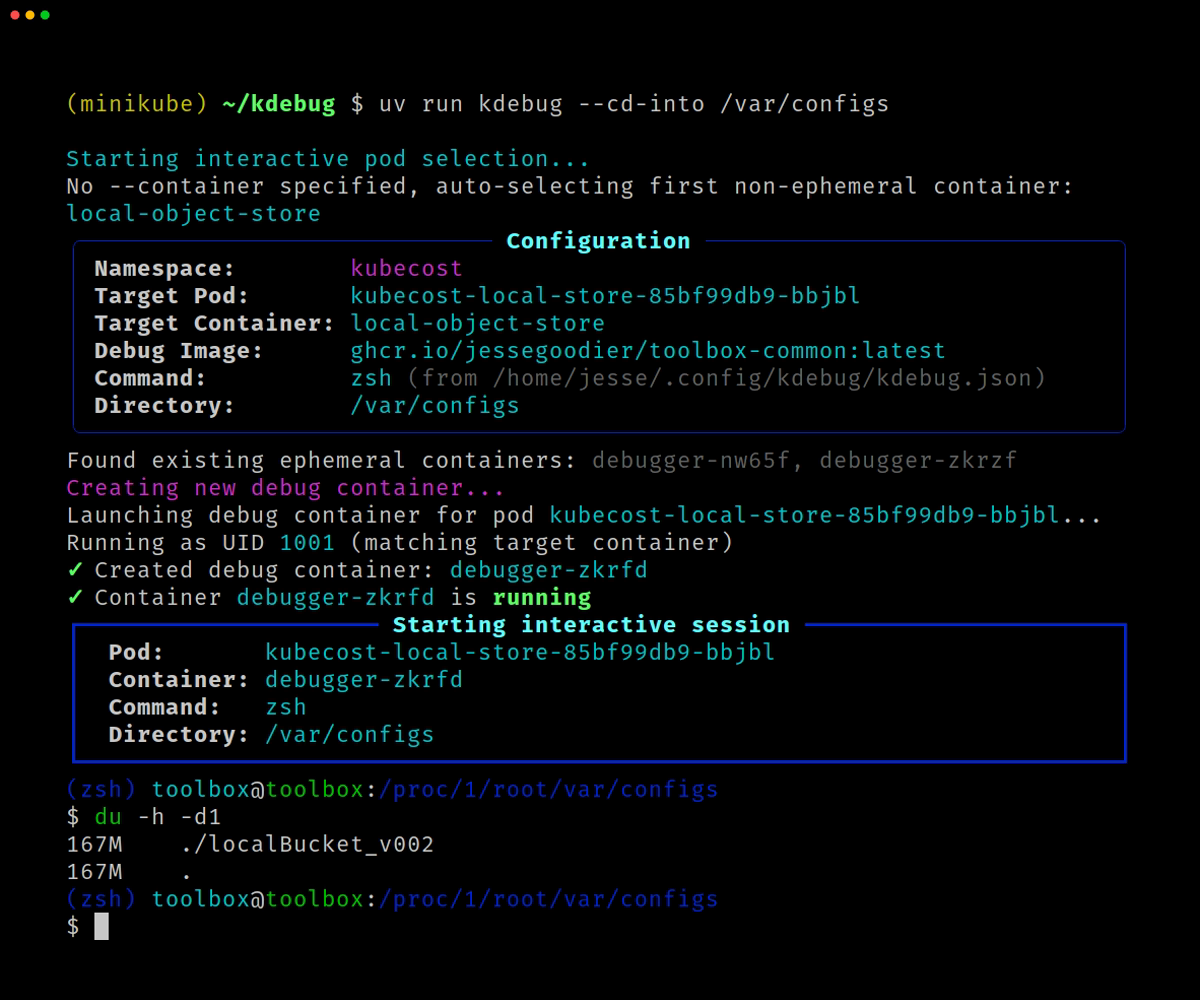
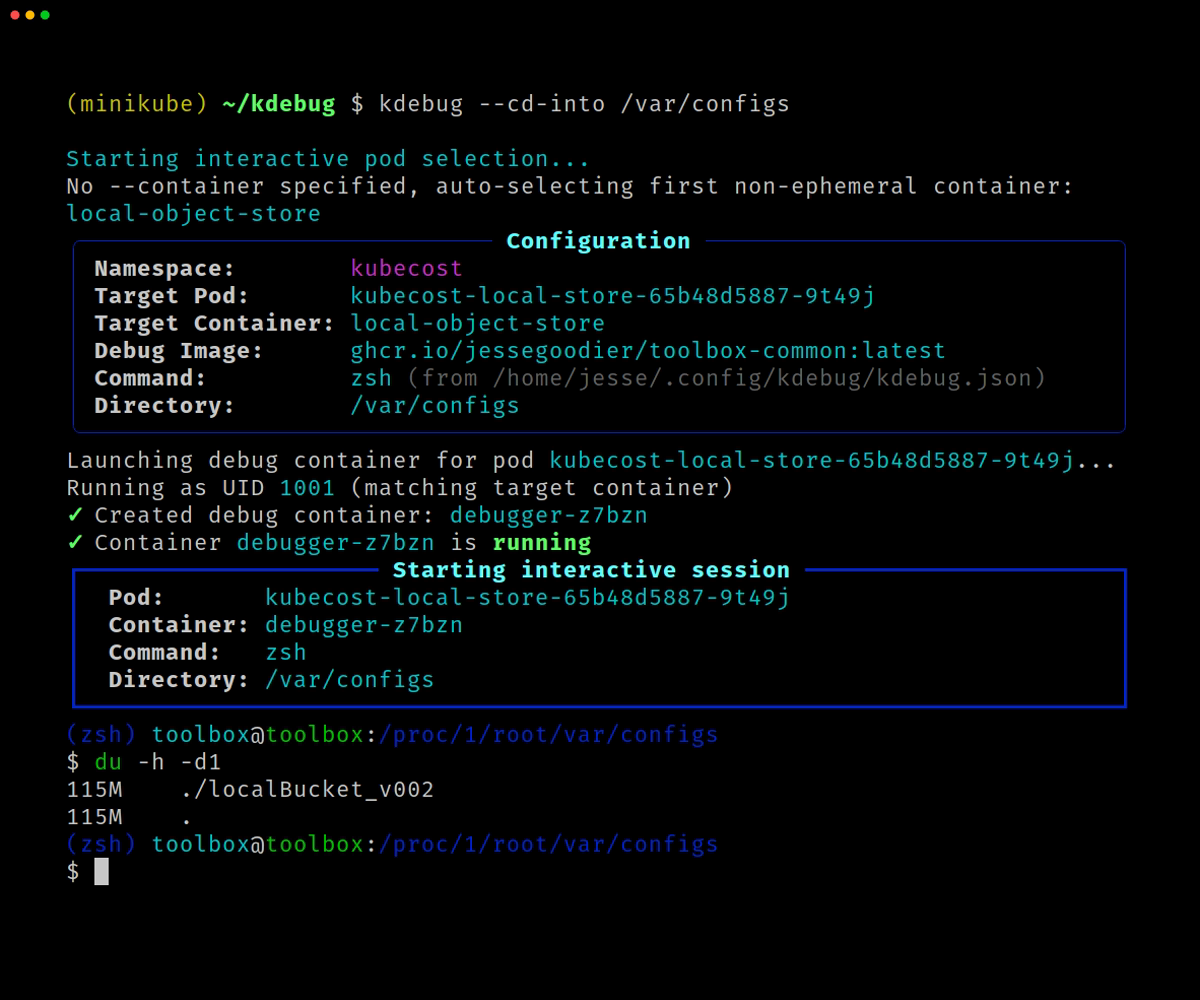
readme

Changed region(s): [[0.0308, 0.434, 0.9558, 0.961], [0.3083, 0.093, 0.74, 0.124], [0.555, 0.279, 0.74, 0.31]]

diff --git a/README.md b/README.md
@@ -1,14 +1,14 @@
-# kdebug - Universal Kubernetes Debug and File Copy Container Utility
+# kdebug
 
-Simple utility for launching ephemeral debug containers in Kubernetes pods with interactive shell access, backup capabilities, and a colorful TUI for pod selection.
+`kdebug` is a helper utility for launching ephemeral Kubernetes debug containers and backing up files. It provides interactive shell access, backup workflows, and a TUI for pod selection.
 
-When you need tools that are not installed in a container you need to debug or backup- `kdebug` simplifies the long commands you'd otherwise need.
+When the target container is missing the tools you need, `kdebug` shortens the `kubectl debug` and `kubectl cp` flow into easy to understand commands.
 
 For example, to run a debug container to look at the Grafana filesystem, you'd need to know all of these details:
 
 ```sh
 kubectl debug kube-prometheus-stack-grafana-d4f497446-kbqc8 \
-  -n monitoring
+  -n monitoring \
   -it \
   --target=grafana \
   --share-processes \
@@ -17,7 +17,7 @@ kubectl debug kube-prometheus-stack-grafana-d4f497446-kbqc8 \
   -- /bin/sh
 ```
 
-And then, to get to the containers file system, you'd need to run `cd /proc/1/root/etc/grafana`.
+And then, to get to the container's filesystem, you'd need to run `cd /proc/1/root/etc/grafana`.
 
 Instead:
 
@@ -31,9 +31,9 @@ tldr; install:
 brew install jessegoodier/kdebug/kdebug
 ```
 
-Similar to [kpf](https://github.com/jessegoodier/kpf), this is a python wrapper around `kubectl debug` and `kubectl cp`.
+Similar to [kpf](https://github.com/jessegoodier/kpf), this is a Python wrapper around `kubectl debug` and `kubectl cp`.
 
->Notice: the default debug container image is <https://github.com/jessegoodier/toolbox/tree/main/common> and may not be ideal for all users. This is configurable both with an arg and a global config file.
+> Notice: the default debug image is [ghcr.io/jessegoodier/toolbox-common:latest](https://github.com/jessegoodier/toolbox/tree/main/common). Override it with `--debug-image` or a global config file if that image is not appropriate for your needs.
 
 ## Features
 
@@ -41,9 +41,9 @@ Similar to [kpf](https://github.com/jessegoodier/kpf), this is a python wrapper 
 - 💾 **Backup Capabilities** - Copy files/directories from pods with optional compression and configurable local paths
 - 🔍 **Multiple Selection Modes** - Direct pod, controller-based, or interactive TUI
 - 🎯 **Smart Container Selection** - Auto-select containers or choose specific targets
-- 🔐 **Root Access Support** - Run debug containers as root when needed
-- 📦 **Controller Support** - Works with Deployments, StatefulSets, and DaemonSets
+- 📦 **Backup Size Estimates** - Understand how much data you backing up
 - ⚙ **Config File** - Set defaults for debug image, shell command, and backup paths
+- 🔐 **Command Completion** - Automatically installed with brew, otherwise `--completion zsh/bash/fish`
 
 <details open>
 <summary>Demo of the debug TUI</summary>
@@ -59,50 +59,62 @@ Similar to [kpf](https://github.com/jessegoodier/kpf), this is a python wrapper 
 
 ## Installation
 
+### Homebrew
+
 ```bash
 brew install jessegoodier/kdebug/kdebug
 ```
 
+### Python tools
+
+```
+# uv
+uv tool install kdebug
+
+# pip
+pip install kdebug
+```
+
 ## Usage
 
-kdebug uses subcommands for its two modes of operation:
+`kdebug` has two modes of operation:
 
 ```
 kdebug debug [options]          # Interactive debug session (default)
 kdebug backup [options]         # Backup files from pod
-kdebug [options]                # Same as "kdebug debug" for convenience
+kdebug [options]                # Same as "kdebug debug"
 ```
 
 ### Global Options
 
-These shared options work with both subcommands:
+These shared options work with both `debug` and `backup`:
 
 ```bash
 # Use a specific context
 kdebug --context minikube -n default --pod my-pod
 
 # Use a different kubeconfig file
-kdebug --kubeconfig .kubeconfig -n openclaw
+kdebug --kubeconfig .kubeconfig -n my-app
 
 # Combine both options
-kdebug --kubeconfig /path/to/config --context staging -n myapp --pod api-0
+kdebug --kubeconfig /path/to/config --context staging -n my-app --pod my-pod
 ```
 
 ### Interactive Mode (TUI)
 
-When no pod or controller is specified, kdebug launches an interactive menu system:
+When no pod or controller is specified, `kdebug` launches an interactive menu:
 
 ```bash
 # Interactive mode - select from all resources in current namespace
 kdebug
 
 # Interactive mode with specific namespace
-kdebug -n openclaw
+kdebug -n my-app
 ```
 
 ### Debug Subcommand
 
-The `debug` subcommand (or naked `kdebug`) launches an interactive shell session in an ephemeral debug container.
+The `debug` subcommand, or bare `kdebug`, launches an interactive shell session in an ephemeral debug container.
 
 ```bash
 # Interactive session with direct pod (bare usage = debug)
@@ -127,6 +139,8 @@ kdebug debug -n kubecost --pod aggregator-0 --cd-into /var/configs
 
 ### Controller-Based Selection
 
+Avoid the TUI and launch with direct commands:
+
 ```bash
 # Using StatefulSet (sts)
 kdebug --controller sts/aggregator --container aggregator
@@ -146,6 +160,8 @@ kdebug -n logging --controller ds/fluentd
 ### Backup Subcommand
 
 The `backup` subcommand copies files or directories from a pod to your local machine.
+
+This supports both copying files as is to the client, or optionally use tar+gz to compress the files in container before copying.
 
 ```bash
 # Backup a directory (uncompressed)
@@ -255,16 +271,13 @@ Since busybox doesn't include bash, set `cmd` to `sh`. With this config, simply 
 
 ## Shell Completion
 
-kdebug supports tab completion for bash and zsh with dynamic lookups for namespaces, pods, controller names, and subcommands.
+`kdebug` supports tab completion for bash, zsh, and fish with dynamic lookups for namespaces, pods, controller names, and contexts.
 
 ### Bash
 
 ```bash
 # Add to ~/.bashrc
 source <(kdebug --completions bash)
-
-# Or source the file directly
-source /path/to/kdebug/completions/kdebug.bash
 ```
 
 ### Zsh
@@ -281,6 +294,16 @@ fpath=(~/.zsh/completions $fpath)
 autoload -Uz compinit && compinit
 ```
 
+### Fish
+
+```fish
+# Load for current shell
+kdebug --completions fish | source
+
+# Or install permanently
+kdebug --completions fish > ~/.config/fish/completions/kdebug.fish
+```
+
 ### Completion Features
 
 - `kdebug <TAB>` - Complete subcommands (`debug`, `backup`)
@@ -289,7 +312,7 @@ autoload -Uz compinit && compinit
 - `kdebug backup --<TAB>` - Complete backup-specific options
 - `kdebug -n <TAB>` - Complete namespace names from cluster
 - `kdebug --pod <TAB>` - Complete pod names (respects -n flag)
-- `kdebug --controller <TAB>` - Complete controller types and names
+- `kdebug --controller <TAB>` - Complete controller type/name pairs
 - `kdebug --context <TAB>` - Complete context names from kubeconfig
 
 ## Examples
@@ -366,6 +389,7 @@ kdebug uses a kubecolor-inspired color scheme:
 ## Requirements
 
 - Python 3.9+
+- `rich` is installed automatically with the Python package
 - kubectl configured with cluster access
 - Kubernetes cluster with ephemeral containers support (v1.23+)
 
@@ -409,6 +433,4 @@ MIT
 
 Contributions welcome! Please open issues or pull requests.
 
----
-
-Made with ❤ and Bob
+See [README-development.md](README-development.md) for local setup, linting, tests, and helper `just` commands.
